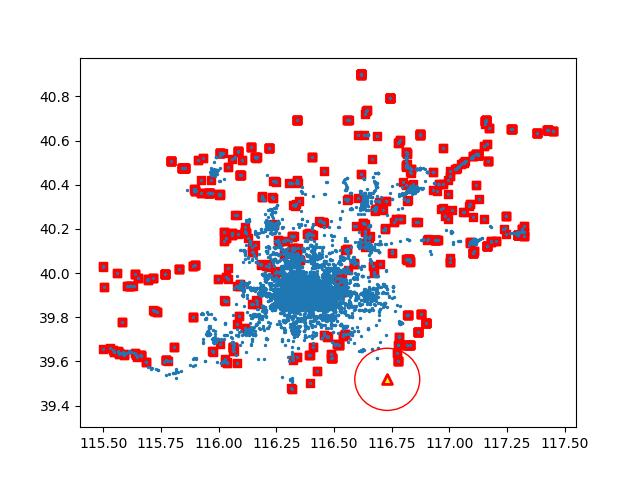
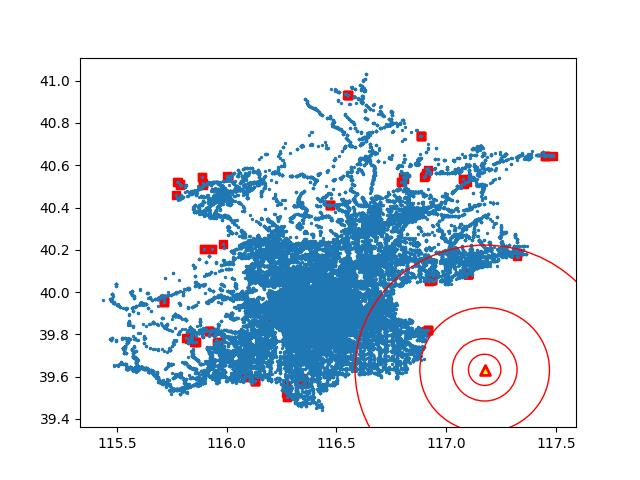
minor change

diff --git a/model/RTree.py b/model/RTree.py
@@ -266,7 +266,8 @@ class RTree:
         for i in range(len(ABL)):
             prued = False
             for j in range(len(ABL)):
-                if i == j: continue
+                if i == j:
+                    continue
                 if ABL[j]["mindist"] > ABL[i]["minmaxdist"]:
                     prued = True
                     break  # i is no longer qualified break
@@ -274,23 +275,19 @@ class RTree:
                 prune_list.append(ABL[i])
         return prune_list
 
-    def rule2(self, ABL,result, point,k):
-        if len(result) < k:
-            return result
-        result_point = result[k-1]
-        prued = False
+    def rule2(self, ABL, result, point):
+        result_point = result[-1]
         for obj in ABL:
             if Point.distance(point, result_point) > obj["minmaxdist"]:
-                # print("hahahhaha")
-                # print(Point.distance(point, result_point))
-                # print(obj["minmaxdist"])
-                prued = True
+                result.pop()
                 break
-        if prued:
-            result.pop()
         return result
 
-    def rule3(self, ABL, point):
+    def rule3(self, ABL, result, point):
+        result_point = result[-1]
+        for obj in ABL:
+            if Point.distance(point, result_point) < obj["mindist"]:
+                ABL.remove(obj)
         return ABL
 
     def knnSearch(self, point, k):
@@ -338,45 +335,20 @@ class RTree:
                     # if it is leafnode, use point pool to update result
                     for pool_point in tree.point_pool:
                         if Point.distance(point, pool_point) <= radius:
-                                result.append(pool_point)
-                                i = len(result) - 1
-                                while i > 0 and Point.distance(point, pool_point) < Point.distance(point, result[i-1]):
-                                        result[i] = result[i-1]
-                                        i -= 1
-                                result[i] = pool_point
+                            result.append(pool_point)
+                            i = len(result) - 1
+                            while i > 0 and Point.distance(point, pool_point) < Point.distance(point, result[i-1]):
+                                result[i] = result[i-1]
+                                i -= 1
+                            result[i] = pool_point
                     while len(result) > k:
                         result.pop()
-                # ABL = self.rule1(ABL, point)
-                # result = self.rule2(ABL,result,point,k)
+                if len(result) == k:
+                    ABL = self.rule1(ABL, point)
+                    result = self.rule2(ABL, result, point)
+                    ABL = self.rule3(ABL, result, point)
             if len(result) < k:
                 radius *= 2
                 search_range_record.append(radius)
 
         return result, search_range_record
-
-        # TODO: check if k > points num
-        # TODO: check if point is in mbr
-        # generate query range
-        # get points by search mbr
-        # while True:
-        #     scan_set = rtree.getPointsByCircle(point,radius)
-        #     # if points num is enough, get first k points
-        #     result_set = {}
-        #     for target_point in scan_set:
-        #         dist = Point.distance(point, target_point)
-        #         if  dist <= radius:
-        #             if len(result_set) <= k:
-        #                 result_set[target_point] = dist
-        #             else :
-        #             # sort result set
-        #                 sort_result = sorted(result_set.items(), key = lambda kv:kv[1])
-        #                 max_point = sort_result.pop()
-        #                 if max_point[1] > dist:
-        #                     result_set.pop(max_point[0])
-        #                     result_set[target_point] = dist
-        #     # if points num is not enough, expand range
-        #     if len(result_set) < k:
-        #         radius *= 2
-        #         search_range_record.append(radius)
-        #         continue
-        #     return list(result_set.keys()), search_range_record

diff --git a/Assignment_2/main.py b/Assignment_2/main.py
@@ -12,8 +12,9 @@ import time
 poi_dataset_lines = load_dataset.load()
 poi_dataset = []
 
-n = 64
+n = 256
 d = 8
+query_times = 30
 
 
 def main(argv):
@@ -33,7 +34,7 @@ def main(argv):
     x_cor = []
     y_cor = []
     # load data
-    for row in poi_dataset_lines[:10000]:
+    for row in poi_dataset_lines:
         x, y = row.split(',')
         x = float(x)
         y = float(y)
@@ -53,7 +54,6 @@ def main(argv):
     mbr = rt.mbr
     k = 5
     fail_count = 0
-    query_times = 200
     for i in range(query_times):
         x_low = mbr.left + random.random() * (mbr.right - mbr.left)
         y_low = mbr.bottom + random.random() * (mbr.top - mbr.bottom)

diff --git a/test.py b/test.py
@@ -1,18 +1,17 @@
 '''
 Date: 2022-04-26 09:04:38
 LastEditors: Chaoyang.Tang
-LastEditTime: 2022-04-27 16:06:39
+LastEditTime: 2022-04-27 17:46:56
 FilePath: /CSIT6000P/test.py
 '''
 from model.MBR import MBR
 from model.Point import Point
 
-point1 = Point(index=[0,0])
-point2 = Point(index=[3,4])
-print(Point.distance(point1,point2))
-
 target = [1,3,5]
 test = [2,3,5,6,7,8,9,10]
+test.pop()
+
+print(test)
 
 m = 1
 for i in range(len(test)):
